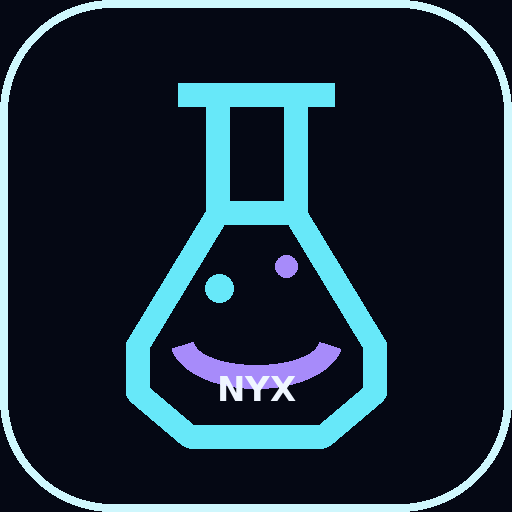
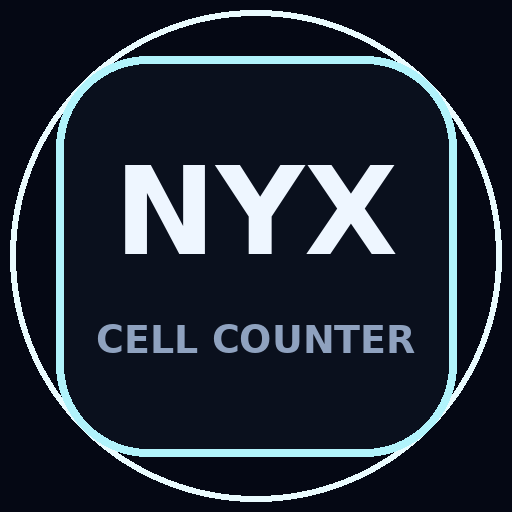
Add files via upload

diff --git a/sw.js b/sw.js
@@ -1,18 +1,74 @@
-/* NYX v5.32 — emergency service worker killer. Clears old PWA caches and unregisters itself. */
-self.addEventListener('install', event => {
-  event.waitUntil((async () => {
-    const keys = await caches.keys();
-    await Promise.all(keys.map(k => /nyx|cell-counter|pwa|v5/i.test(k) ? caches.delete(k) : Promise.resolve(false)));
-    await self.skipWaiting();
-  })());
+/* NYX Cell Counter Pro v5.22 — GitHub Pages PWA service worker */
+const NYX_CACHE = 'nyx-cell-counter-pro-v5-22-github-pages';
+const APP_SHELL = [
+  './',
+  './index.html',
+  './manifest.webmanifest',
+  './icons/icon-180.png',
+  './icons/icon-192.png',
+  './icons/icon-512.png',
+  './icons/maskable-512.png'
+];
+
+self.addEventListener('install', (event) => {
+  event.waitUntil(
+    caches.open(NYX_CACHE)
+      .then((cache) => cache.addAll(APP_SHELL))
+      .then(() => self.skipWaiting())
+  );
 });
-self.addEventListener('activate', event => {
-  event.waitUntil((async () => {
-    const keys = await caches.keys();
-    await Promise.all(keys.map(k => /nyx|cell-counter|pwa|v5/i.test(k) ? caches.delete(k) : Promise.resolve(false)));
-    const clientsList = await self.clients.matchAll({type:'window', includeUncontrolled:true});
-    for (const client of clientsList) client.postMessage({type:'NYX_CACHE_CLEARED', version:'v5.32'});
-    try { await self.registration.unregister(); } catch(e) {}
-  })());
+
+self.addEventListener('activate', (event) => {
+  event.waitUntil(
+    caches.keys()
+      .then((keys) => Promise.all(keys.map((key) => {
+        if (key !== NYX_CACHE && key.startsWith('nyx-cell-counter-pro-')) {
+          return caches.delete(key);
+        }
+        return Promise.resolve();
+      })))
+      .then(() => self.clients.claim())
+  );
 });
-self.addEventListener('fetch', event => { return; });
+
+self.addEventListener('message', (event) => {
+  if (event.data && event.data.type === 'SKIP_WAITING') {
+    self.skipWaiting();
+  }
+});
+
+self.addEventListener('fetch', (event) => {
+  const request = event.request;
+  if (request.method !== 'GET') return;
+
+  const url = new URL(request.url);
+  if (url.origin !== self.location.origin) return;
+
+  // HTML navigation: network-first for updates; offline fallback to cached app shell.
+  if (request.mode === 'navigate') {
+    event.respondWith(
+      fetch(request)
+        .then((response) => {
+          const copy = response.clone();
+          caches.open(NYX_CACHE).then((cache) => cache.put('./index.html', copy));
+          return response;
+        })
+        .catch(() => caches.match('./index.html').then((cached) => cached || caches.match('./')))
+    );
+    return;
+  }
+
+  // Static assets: cache-first; update cache opportunistically.
+  event.respondWith(
+    caches.match(request).then((cached) => {
+      if (cached) return cached;
+      return fetch(request).then((response) => {
+        if (response && response.ok) {
+          const copy = response.clone();
+          caches.open(NYX_CACHE).then((cache) => cache.put(request, copy));
+        }
+        return response;
+      });
+    })
+  );
+});

diff --git a/README_PWA_GITHUB.md b/README_PWA_GITHUB.md
@@ -1,0 +1,28 @@
+# NYX Cell Counter Pro v5.22 — PWA GitHub Pages
+
+Pacote pronto para publicação como PWA no GitHub Pages.
+
+## Arquivos principais
+
+- `index.html` — aplicativo singlefile.
+- `manifest.webmanifest` — manifesto PWA com caminhos relativos.
+- `sw.js` — service worker com cache offline e atualização de versão.
+- `icons/` — ícones PNG e SVG.
+
+## Como publicar no GitHub Pages
+
+1. Crie um repositório no GitHub.
+2. Envie todos os arquivos deste pacote para a raiz do repositório.
+3. Abra **Settings → Pages**.
+4. Em **Build and deployment**, selecione **Deploy from a branch**.
+5. Em **Branch**, escolha `main` e `/root`.
+6. Salve.
+7. Abra a URL gerada pelo GitHub Pages.
+8. No Chrome Android, use **Adicionar à tela inicial** ou **Instalar app**.
+
+## Observações técnicas
+
+- Os caminhos usam `./` para funcionar em subpasta de repositório.
+- O service worker só funciona em HTTPS ou localhost; GitHub Pages usa HTTPS.
+- Ao atualizar o app, troque o nome do cache em `sw.js` para forçar atualização limpa.
+- Se o celular continuar abrindo versão antiga, limpe os dados do site/PWA ou desinstale e instale novamente.